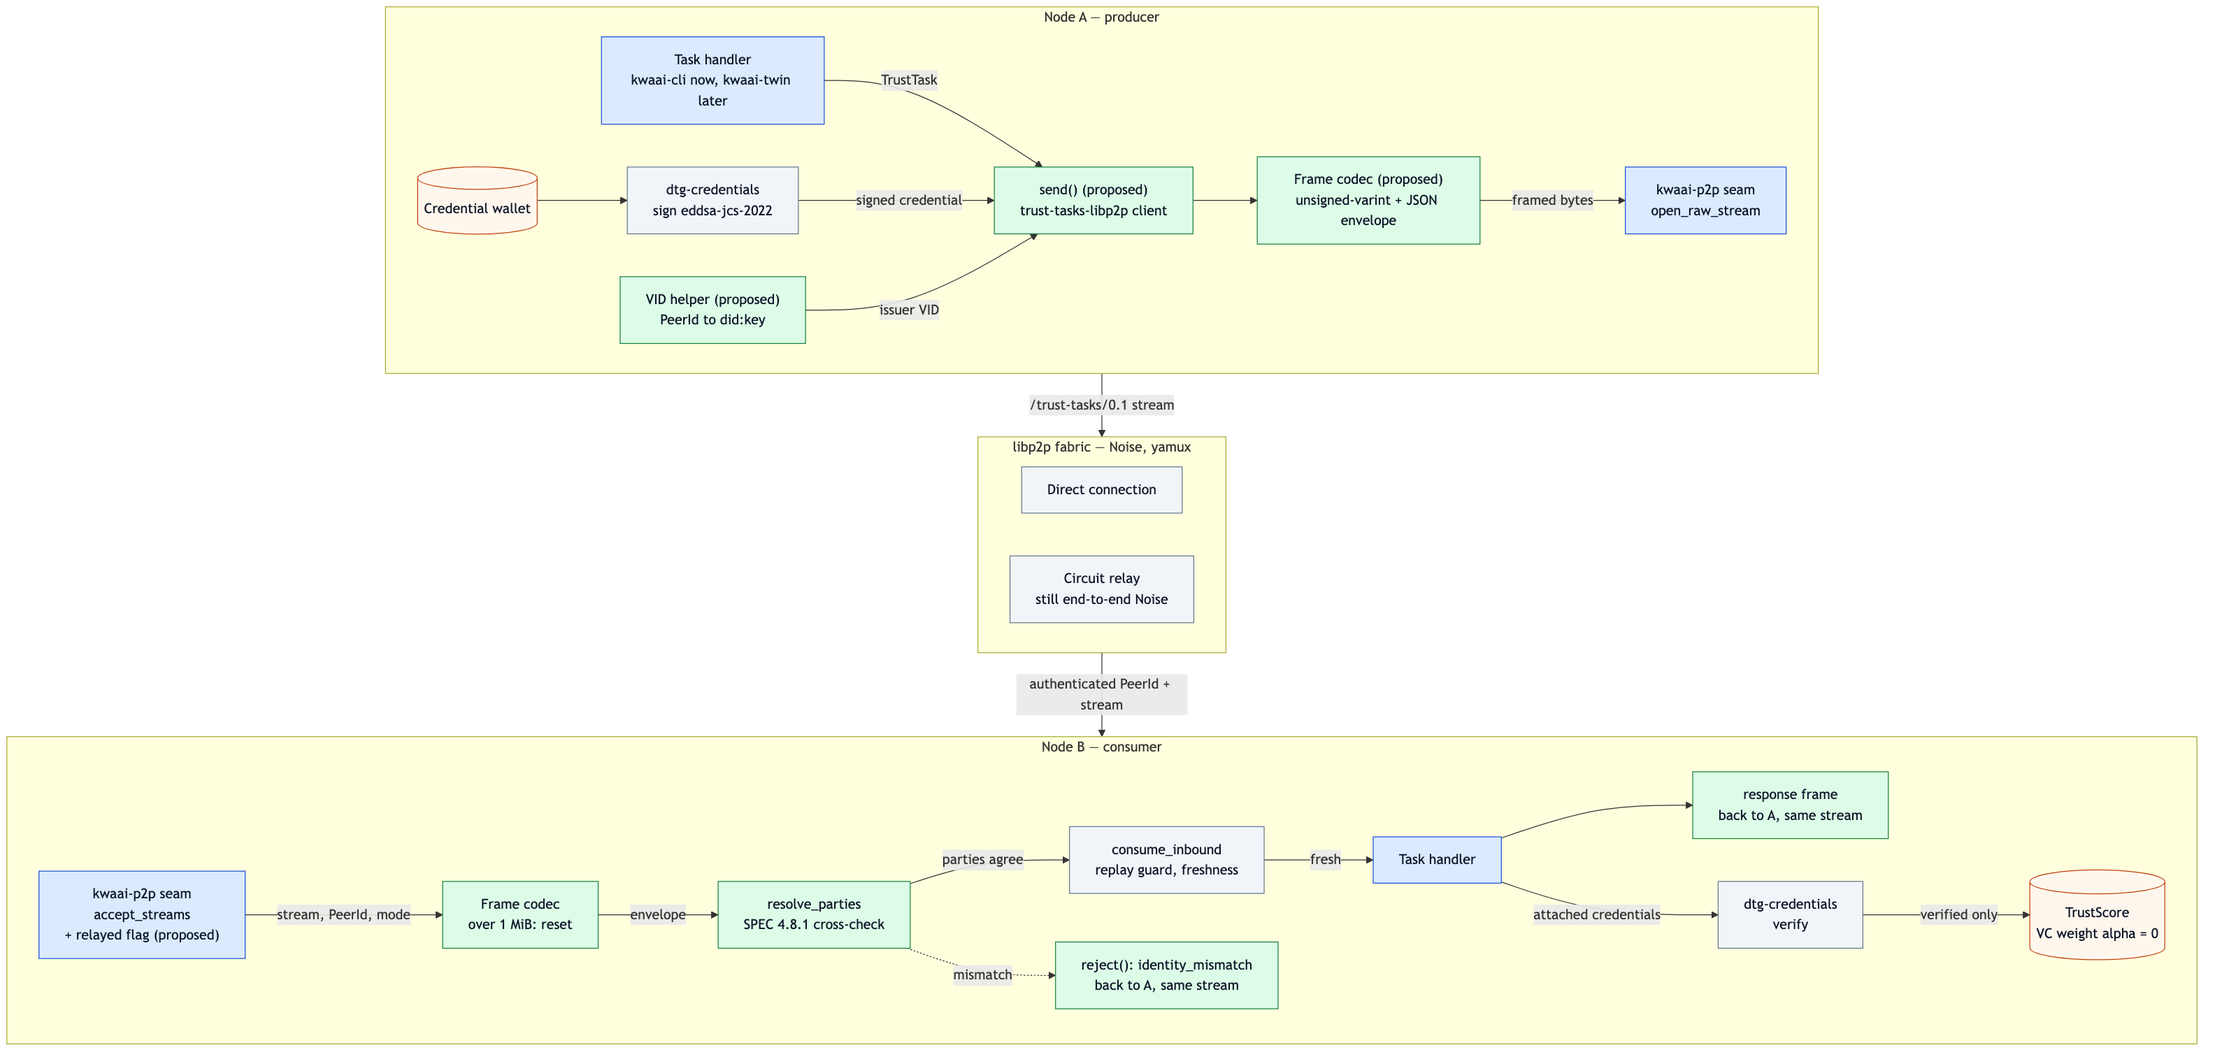
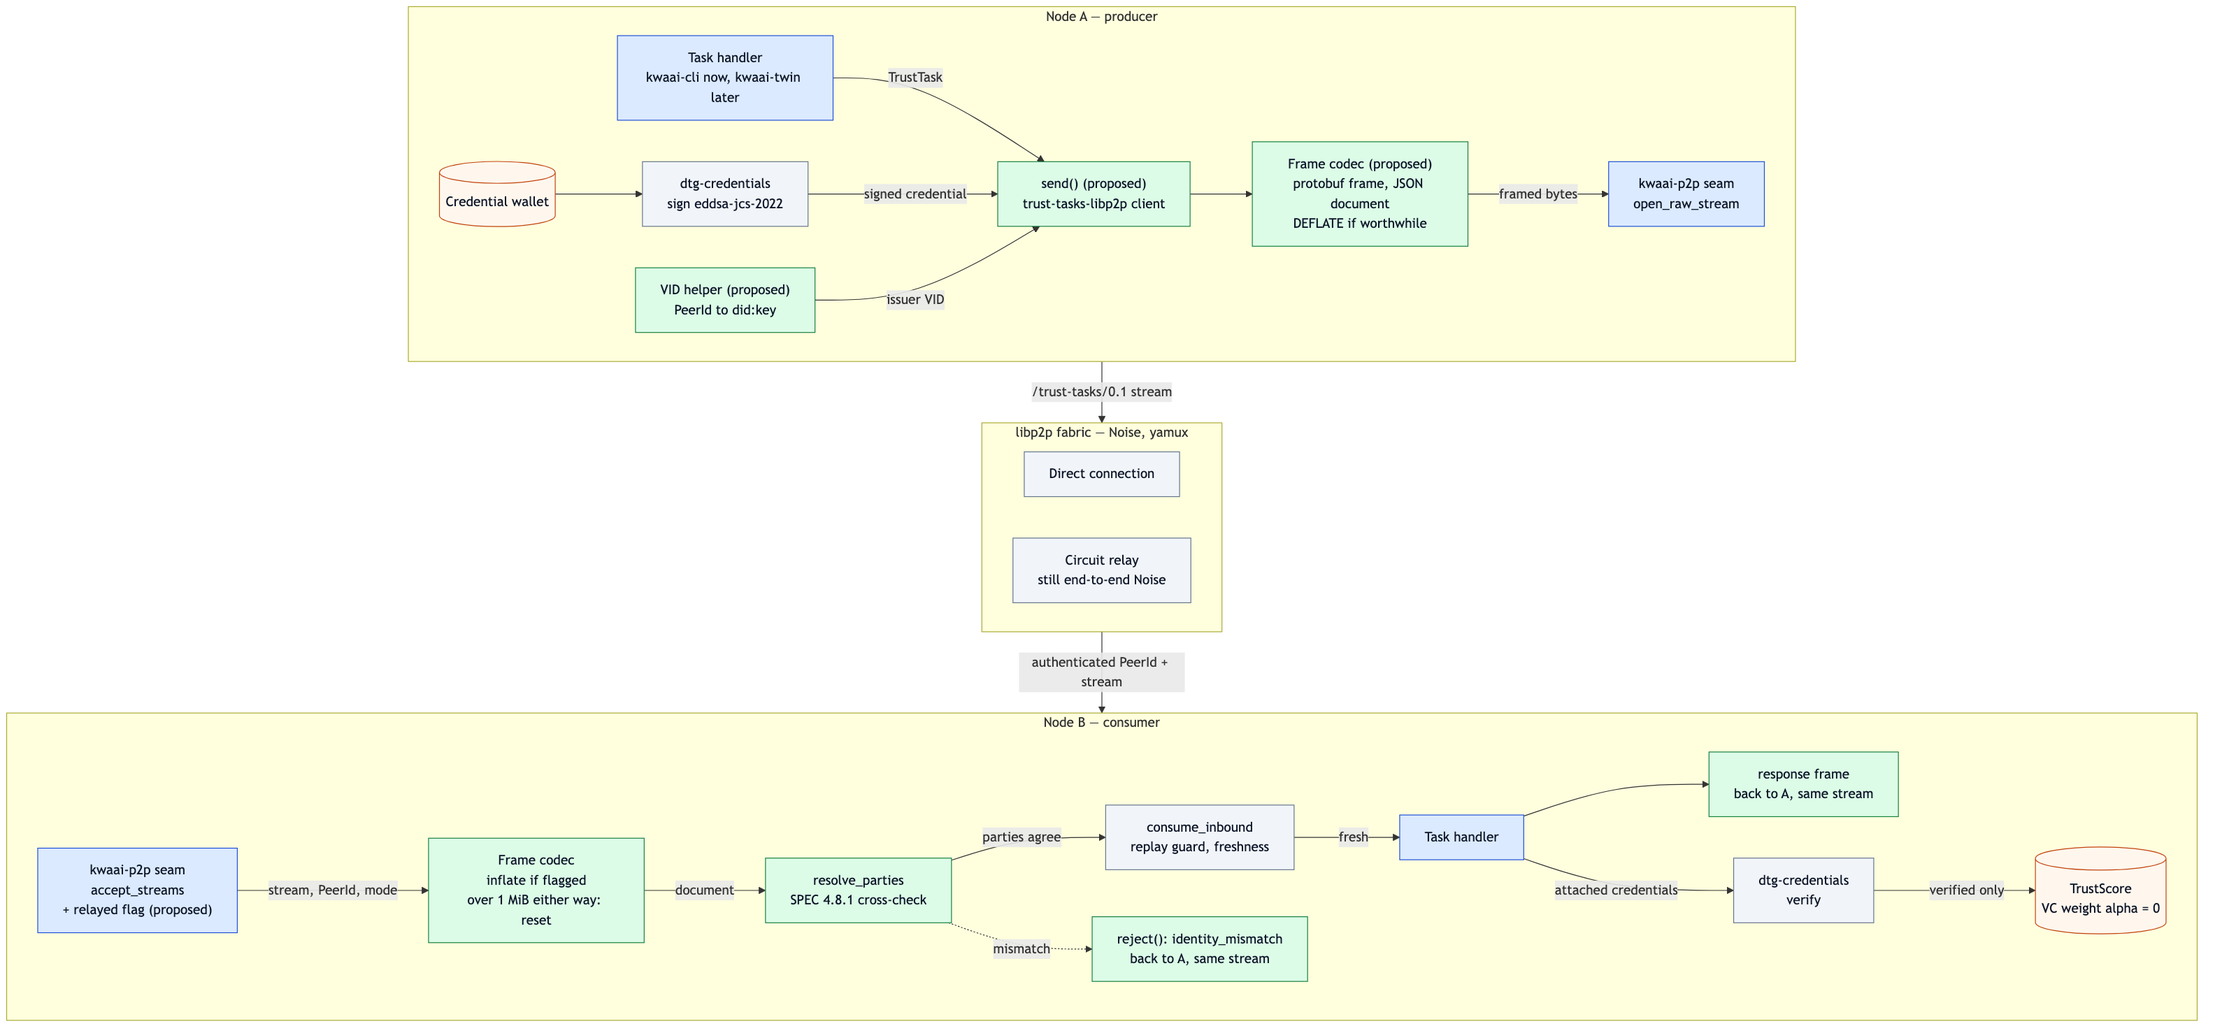
docs(trust): binary framing with a compression flag; the document stays JSON
Following the design review with Darren (libp2p convention and
performance), the libp2p binding's wire format becomes an unsigned-varint
length-prefixed protobuf TrustTaskFrame { bytes document; Compression
compression } with NONE and DEFLATE:

- No envelope type: the negotiated protocol ID identifies the content
  (the JSON envelope was 73 B, 15% of a median document).
- The document stays UTF-8 JSON as SPEC 4.1 requires, carried as bytes,
  so proofs, task digests and idConflict work as specified. Transcoding
  it is ruled out (google.protobuf.Struct makes every number a double).
- Receivers MUST support NONE and DEFLATE (no negotiation); 1 MiB applies
  to the frame and to the inflated document (decompression-bomb guard);
  compress above a threshold, not by default, and not for documents that
  mix secrets with attacker-influenced content.

Sizes measured on 256 upstream example documents: median 497 B, p90
936 B, max 2.6 KB; DEFLATE saves ~38%. The spike measures KwaaiNet's own
documents and a latency split to set the threshold. Plan, proposal
(revision 3 now asks the WG to confirm the wire format) and diagrams
(data flow, entities, request/response) updated; PNGs re-rendered.

Claude-Session: https://claude.ai/code/session_015zVjJcdUsLC55FAjuiY6Cp

diff --git a/projects/kwaai-trust/plans/DTGWG-TrustStack-plan.md b/projects/kwaai-trust/plans/DTGWG-TrustStack-plan.md
@@ -77,7 +77,8 @@ because ownership is the design: **blue** is code in the KwaaiNet tree, **green*
 
 A task handler on node A hands a Trust Task to the crate's `send()`. The crate stamps the
 issuer as a `did:key` derived from the node's own PeerId, attaches any credential signed
-by `dtg-credentials`, frames the envelope, and writes it to a stream that `kwaai-p2p` opened
+by `dtg-credentials`, wraps the document in a protobuf frame (DEFLATE-compressed when worthwhile),
+and writes it to a stream that `kwaai-p2p` opened
 on `/trust-tasks/0.1`. The stream crosses the libp2p fabric directly or through a circuit
 relay; either way it stays end-to-end Noise.
 
@@ -103,7 +104,7 @@ which is what Trust Tasks compares by exact string. A node may also publish an o
 `did:peer:2` **routing DID** for the bridge; its dialable addresses otherwise keep travelling
 in **signed peer records** as today. A **Trust Task** names an issuer and a recipient VID,
 belongs to a **thread** that carries its lifecycle state, and travels inside a binding
-**envelope**.
+**frame**: the document as JSON bytes, plus a compression flag.
 
 Credentials follow the DTG model: a **DTG credential** has an issuer and a subject VID, a
 required `issuerScope`, and one `eddsa-jcs-2022` **Data Integrity proof**; statement
@@ -210,8 +211,44 @@ Options considered:
   `open_raw_stream(peer, ...)` → `send(...)`. Our `RawStream` already implements the seam.
 - Credentials likewise by crate: `dtg-credentials` consumed as-is (OpenVTC); no fork, no
   wrapper beyond mapping our types.
-- **Wire (spec):** protocol ID proposed `/trust-tasks/0.1` (confirm with WG); a stream
-  carries a sequence of unsigned-varint-framed JSON envelopes until half-close; late
+- **Wire (spec):** protocol ID proposed `/trust-tasks/0.1` (confirm with WG). Each frame is
+  an unsigned-varint length prefix and a protobuf `TrustTaskFrame` — the libp2p convention
+  (identify, kad and relay frame protobuf the same way):
+
+  ```proto
+  syntax = "proto3";
+
+  message TrustTaskFrame {
+    bytes       document    = 1;  // the Trust Task document: UTF-8 JSON (SPEC §4.1), encoded per `compression`
+    Compression compression = 2;  // how `document` is encoded on the wire
+  }
+
+  enum Compression {
+    COMPRESSION_NONE    = 0;  // the document bytes exactly as the producer serialised them
+    COMPRESSION_DEFLATE = 1;  // raw DEFLATE (RFC 1951) of those bytes
+  }
+  ```
+
+  - **No envelope type.** The negotiated protocol ID already says what the stream carries;
+    TSP and DIDComm need a `{type, document}` envelope only because their payloads have no
+    content type. Dropping it removes 73 B, 15% of a median document (measured below).
+  - **The document stays JSON** (SPEC §4.1). After decompression the receiver holds exactly
+    the bytes the producer serialised, so proofs, task digests and `idConflict` work as
+    specified, and a bridge can hand documents to TSP/DIDComm untouched. Transcoding the
+    document itself to protobuf is ruled out: `payload`/`ext` are open JSON, and
+    `google.protobuf.Struct` turns every number into a double, breaking JCS signatures.
+  - **Compression flag.** Receivers MUST support `NONE` and `DEFLATE`, so no negotiation is
+    needed; the sender chooses per frame. DEFLATE is the baseline because Go (`compress/flate`),
+    Rust (`flate2`) and browsers (`CompressionStream("deflate-raw")`) have it without extra
+    dependencies; zstd can be added later as value 2. An unknown value is a binding error.
+  - **Limits.** 1 MiB applies to the frame **and** to the decompressed document, enforced while
+    inflating (a decompression-bomb guard); both rejected before allocation.
+  - **When to compress.** Measured on 256 upstream example documents: median 497 B (p90
+    936 B, max 2.6 KB); DEFLATE saves ~38%. So: `NONE` by default, `DEFLATE` above a size
+    threshold (start at 1 KiB; the spike sets it from KwaaiNet's own documents). Senders
+    SHOULD NOT compress documents that mix secret values with attacker-influenced content:
+    inside an encrypted channel, compressed length can leak (the CRIME/BREACH class).
+  - A stream carries a sequence of frames until half-close; late
   responses, `trust-task-next-step`, control and errors after `executing` go on a fresh
   stream opened by whichever side sends, correlated by `id`/`threadId` (libp2p has no
   correlation of its own — say so); stream reset / connection drop / half-close map to
@@ -275,7 +312,7 @@ Options considered:
 | Phase | When | Deliverable | Exit criterion |
 |---|---|---|---|
 | 0 · Re-sync the record | Oct 2026 | Correct `-response.md`, `PublicRelease-plan.md` trust sections (versions, the contributed crate supersedes rule 2, `ssi` → Affinidi, credential set), kwaai-trust `CLAUDE.md`/`roadmap.md`/`TODO.md`; #248 reply: correct the did:peer claim, ask Glenn to confirm in writing (slug; a complete `trust-tasks-libp2p` crate over a `(PeerId, stream)` seam in their workspace, published in the `core` group; Kwaai as co-maintainer; VID form; protocol ID) | Written maintainer confirmation incl. VID form and co-maintenance |
-| 1 · Toolchain + spike | Oct–Nov 2026 | PR bumping `rust-toolchain.toml` to ≥ 1.95 with all release jobs green; `trust-tasks-libp2p` developed **in a fork of the upstream workspace** (so it is born in their layout and CI), consumed by a KwaaiNet spike branch through a git dependency, two local nodes | (a) round trip direct **and** through a default-limit relay; (b) mismatched in-band issuer rejected with `identity_mismatch`, error routed to the sender; (c) oversize frame rejected; (d) `dtg-credentials` issue→verify, plus one upstream vector verifies; (e) one real node-to-node interaction expressed as a Trust Task with a defined lifecycle end — else no-go |
+| 1 · Toolchain + spike | Oct–Nov 2026 | PR bumping `rust-toolchain.toml` to ≥ 1.95 with all release jobs green; `trust-tasks-libp2p` developed **in a fork of the upstream workspace** (so it is born in their layout and CI), consumed by a KwaaiNet spike branch through a git dependency, two local nodes | (a) round trip direct **and** through a default-limit relay; (b) mismatched in-band issuer rejected with `identity_mismatch`, error routed to the sender; (c) oversize frame and oversize *decompressed* document (decompression bomb) rejected; (c2) measurement: KwaaiNet document sizes and a per-task latency split (network, proof verification, JSON parse, compression) that sets the compression threshold; (d) `dtg-credentials` issue→verify, plus one upstream vector verifies; (e) one real node-to-node interaction expressed as a Trust Task with a defined lifecycle end — else no-go |
 | 2 · Upstream PR | Nov–Dec 2026 | OWF CLA signed first; security review of the §9.1.1 text; `bindings/libp2p/0.1/spec.md` + `trust-tasks-libp2p` (+ `libp2p` facade feature, release-plz `core` group, CODEOWNERS naming a Kwaai maintainer); vectors exercised by a second implementation (go-libp2p or js-libp2p, or Affinidi/OpenVTC) | Merged and **published on crates.io in their `core` group**; Kwaai listed as co-maintainer |
 | 3 · Node integration | Q1 2027 | Switch the git dependency to the crates.io release; stream seam + relayed flag in `kwaai-p2p`; did:key VID via the crate; DTG credential stack; verified attestations; summit-server decision; docs match code | Fresh-`KWAAINET_HOME` start-up; tasks exchanged on the fleet over direct and relayed paths; credentials verify against upstream's implementation |
 | 4 · Bridge | after Q1 2027 | Design note → decision | — |
@@ -293,7 +330,8 @@ Options considered:
 
 ## Verification
 
-- Spike: `trust-tasks-libp2p` unit tests (frame codec limits, envelope round trip, §4.8.1 mismatch,
+- Spike: `trust-tasks-libp2p` unit tests (frame codec limits, frame round trip with and without
+  DEFLATE — document bytes identical after inflate — decompression-bomb guard, §4.8.1 mismatch,
   replay guard); two-node test with paired `KWAAINET_HOME`s, then via a relay with libp2p
   default limits; `dtg-credentials` round trip and upstream vectors.
 - Upstream: their CI (`cargo test --workspace`, clippy `-D warnings`, `cargo deny`,

diff --git a/projects/kwaai-trust/proposals/TrustTasksLibp2pBinding-proposal.md b/projects/kwaai-trust/proposals/TrustTasksLibp2pBinding-proposal.md
@@ -50,7 +50,7 @@ The diagrams are coloured by owner. **Green** is the crate we would contribute t
 
 ![Data flow of one Trust Task between two peers](https://raw.githubusercontent.com/Kwaai-AI-Lab/KwaaiNet/90e772d85a6e3521499f31fa7c16491e09e59e47/projects/kwaai-trust/design/img/dtgwg-trust-stack/1-data-flow.png)
 
-The sending application hands a Trust Task to the crate. The crate sets the issuer to the `did:key` derived from the node's own PeerId, attaches any credential, frames the envelope and writes it to a libp2p stream on the binding's protocol ID. The stream crosses the network directly or through a circuit relay; either way it is end-to-end Noise. On the receiving side the application passes three things to the crate: the stream, the Noise-authenticated PeerId, and whether the path was relayed. The crate rejects oversize frames, cross-checks the document's issuer against the transport identity per §4.8.1, and hands the document to `consume_inbound` for replay and freshness checks before the application sees it. A mismatched issuer gets an `identity_mismatch` error back on the same stream.
+The sending application hands a Trust Task to the crate. The crate sets the issuer to the `did:key` derived from the node's own PeerId, attaches any credential, wraps the document in a small protobuf frame (compressed when worthwhile) and writes it to a libp2p stream on the binding's protocol ID. The stream crosses the network directly or through a circuit relay; either way it is end-to-end Noise. On the receiving side the application passes three things to the crate: the stream, the Noise-authenticated PeerId, and whether the path was relayed. The crate rejects oversize frames (and oversize documents after decompression), cross-checks the document's issuer against the transport identity per §4.8.1, and hands the document to `consume_inbound` for replay and freshness checks before the application sees it. A mismatched issuer gets an `identity_mismatch` error back on the same stream.
 
 What matters for maintenance is the boundary: **the application's networking code only ever touches a stream, a PeerId and a direct/relayed flag.** It is an in-process interface, function calls inside the application, not a separate service. Everything that is Trust Tasks transport lives in the crate or in core, so when the framework changes the binding, the crate changes and the applications' networking code does not. One honest caveat: an application's task handlers still read and build Trust Task documents using the framework's types, so a breaking change to those types does reach them. That is inherent to speaking the protocol, and it is the same for every binding; what the crate removes is everything below the handlers.
 
@@ -58,7 +58,7 @@ What matters for maintenance is the boundary: **the application's networking cod
 
 ![Entity relationships](https://raw.githubusercontent.com/Kwaai-AI-Lab/KwaaiNet/90e772d85a6e3521499f31fa7c16491e09e59e47/projects/kwaai-trust/design/img/dtgwg-trust-stack/2-entity-relationships.png)
 
-Each node has exactly one VID, a `did:key` derived from its PeerId, and optionally a `did:peer:2` routing DID; dialable addresses otherwise travel in libp2p signed peer records. A Trust Task names an issuer and a recipient VID, belongs to a thread that carries its lifecycle state, and travels in a binding envelope. Credentials follow the DTG credential specification: an issuer and a subject VID, the required `issuerScope`, an `eddsa-jcs-2022` Data Integrity proof, and for statement credentials a predicate the verifier accepts. A credential can be bound to the Trust Task that produced it through `taskContext`.
+Each node has exactly one VID, a `did:key` derived from its PeerId, and optionally a `did:peer:2` routing DID; dialable addresses otherwise travel in libp2p signed peer records. A Trust Task names an issuer and a recipient VID, belongs to a thread that carries its lifecycle state, and travels in a binding frame that carries the document's JSON bytes and a compression flag. Credentials follow the DTG credential specification: an issuer and a subject VID, the required `issuerScope`, an `eddsa-jcs-2022` Data Integrity proof, and for statement credentials a predicate the verifier accepts. A credential can be bound to the Trust Task that produced it through `taskContext`.
 
 ### 3. A request, its response, and a rejected sender
 
@@ -105,6 +105,32 @@ That said, you raised it, so you may have a reason to prefer otherwise.
 
 `did:key` for the VID, derived from the PeerId; `did:peer:2` as an optional routing DID, for the routing reason you gave. See the two corrections above for why we changed this.
 
+## Wire format: binary framing, JSON document — please weigh in
+
+The document stays exactly what §4.1 says it is: a UTF-8 JSON object, so proofs, task digests and `idConflict` behave as specified and a bridge can pass documents to TSP or DIDComm untouched. What we propose to make binary is only the framing around it, following libp2p's own convention (identify, kad and relay all send unsigned-varint length-prefixed protobuf):
+
+```proto
+syntax = "proto3";
+
+message TrustTaskFrame {
+  bytes       document    = 1;  // the Trust Task document: UTF-8 JSON (SPEC §4.1), encoded per `compression`
+  Compression compression = 2;  // how `document` is encoded on the wire
+}
+
+enum Compression {
+  COMPRESSION_NONE    = 0;  // the document bytes exactly as the producer serialised them
+  COMPRESSION_DEFLATE = 1;  // raw DEFLATE (RFC 1951) of those bytes
+}
+```
+
+Three choices in that, each open to your view:
+
+- **No envelope type.** On TSP and DIDComm the `{type, document}` envelope exists because the payload has no content type. On libp2p, the protocol ID negotiated for the stream already identifies the content, so the frame carries the document directly. Across 256 example documents from the registry (median 497 B), the JSON envelope would have been 15% of the bytes.
+- **A compression flag.** Receivers must support `NONE` and `DEFLATE`, so nothing needs negotiating; the sender decides per frame. DEFLATE is the baseline because Go, Rust and browsers all ship it; zstd could be added later. Compression saves about 38% on those examples, so we would use it above a size threshold rather than by default, and the binding would advise against compressing documents that mix secrets with attacker-influenced content, since compressed length can leak inside an encrypted channel.
+- **Limits.** 1 MiB for the frame and for the document after decompression, enforced while decompressing.
+
+The document is never transcoded: `payload` and `ext` are open JSON, and a protobuf representation of them (`google.protobuf.Struct`) turns every number into a double, which would break JCS-based signatures.
+
 ## What we would contribute
 
 - **`trust-tasks-libp2p`**, built in your workspace layout and CI from the start, released in your `core` group, with `bindings/libp2p/0.1/spec.md` and its registry entry.
@@ -121,6 +147,7 @@ Your approval on the call is what we are working from. Since this discussion is 
 3. Kwaai as co-maintainer of that crate.
 4. `did:key` derived from the PeerId as the VID, with `did:peer:2` optional for routing.
 5. Protocol ID `/trust-tasks/0.1`.
+6. The wire format above: a protobuf frame with no envelope type, the JSON document carried as bytes, and a `NONE`/`DEFLATE` compression flag.
 
 ## Still open
 

diff --git a/projects/kwaai-trust/design/DTGWG-TrustStack-diagrams.md b/projects/kwaai-trust/design/DTGWG-TrustStack-diagrams.md
@@ -35,7 +35,7 @@ flowchart TB
         AC["dtg-credentials<br/>sign eddsa-jcs-2022"]:::ext
         AV["VID helper (proposed)<br/>PeerId to did:key"]:::crate
         AS["send() (proposed)<br/>trust-tasks-libp2p client"]:::crate
-        AF["Frame codec (proposed)<br/>unsigned-varint + JSON envelope"]:::crate
+        AF["Frame codec (proposed)<br/>protobuf frame, JSON document<br/>DEFLATE if worthwhile"]:::crate
         AP["kwaai-p2p seam<br/>open_raw_stream"]:::kwaai
         AW --> AC
         AH -- "TrustTask" --> AS
@@ -53,7 +53,7 @@ flowchart TB
     subgraph B["Node B — consumer"]
         direction LR
         BP["kwaai-p2p seam<br/>accept_streams<br/>+ relayed flag (proposed)"]:::kwaai
-        BF["Frame codec<br/>over 1 MiB: reset"]:::crate
+        BF["Frame codec<br/>inflate if flagged<br/>over 1 MiB either way: reset"]:::crate
         BR["resolve_parties<br/>SPEC 4.8.1 cross-check"]:::crate
         BC["consume_inbound<br/>replay guard, freshness"]:::ext
         BH["Task handler"]:::kwaai
@@ -61,7 +61,7 @@ flowchart TB
         BS[("TrustScore<br/>VC weight alpha = 0")]:::store
         BE["reject(): identity_mismatch<br/>back to A, same stream"]:::crate
         BO["response frame<br/>back to A, same stream"]:::crate
-        BP -- "stream, PeerId, mode" --> BF -- "envelope" --> BR
+        BP -- "stream, PeerId, mode" --> BF -- "document" --> BR
         BR -- "parties agree" --> BC -- "fresh" --> BH
         BR -. "mismatch" .-> BE
         BH --> BO
@@ -89,8 +89,8 @@ erDiagram
     VID ||--o{ TRUST_TASK : "issues"
     VID ||--o{ TRUST_TASK : "receives"
     TRUST_TASK }o--|| THREAD : "belongs to"
-    TRUST_TASK ||--|| ENVELOPE : "carried in"
-    ENVELOPE }o--|| BINDING : "framed by"
+    TRUST_TASK ||--|| FRAME : "carried in"
+    FRAME }o--|| BINDING : "defined by"
     TRUST_TASK |o--o{ DTG_CREDENTIAL : "binds via taskContext"
     WALLET ||--o{ DTG_CREDENTIAL : "holds"
     WALLET ||--o{ LEGACY_VC : "keeps read-only"
@@ -128,10 +128,10 @@ erDiagram
         string thread_id PK "correlates follow-up streams"
         string state "lifecycle per SPEC 4.12 and 11"
     }
-    ENVELOPE {
-        string type "binding envelope type URI"
-        json document "the Trust Task"
-        int max_bytes "1 MiB frame limit"
+    FRAME {
+        bytes document "UTF-8 JSON, possibly compressed"
+        string compression "NONE or DEFLATE"
+        int max_bytes "1 MiB, framed and inflated"
     }
     BINDING {
         string binding_uri PK "trusttasks.org binding libp2p 0.1"
@@ -214,8 +214,8 @@ sequenceDiagram
     LA->>PA: open stream on /trust-tasks/0.1
     PA->>PB: Noise-authenticated libp2p stream, direct or relayed
     PB->>LB: serve(stream, remote PeerId, mode)
-    LA->>LB: frame 1: envelope with the TrustTask
-    LB->>LB: frame length under 1 MiB, else reset the stream
+    LA->>LB: frame 1: TrustTaskFrame, document + compression flag
+    LB->>LB: frame and inflated document under 1 MiB, else reset
     LB->>LB: resolve_parties: in-band issuer vs did:key of remote PeerId
     alt issuer matches, or omitted and filled from transport
         LB->>CB: document with resolved parties
